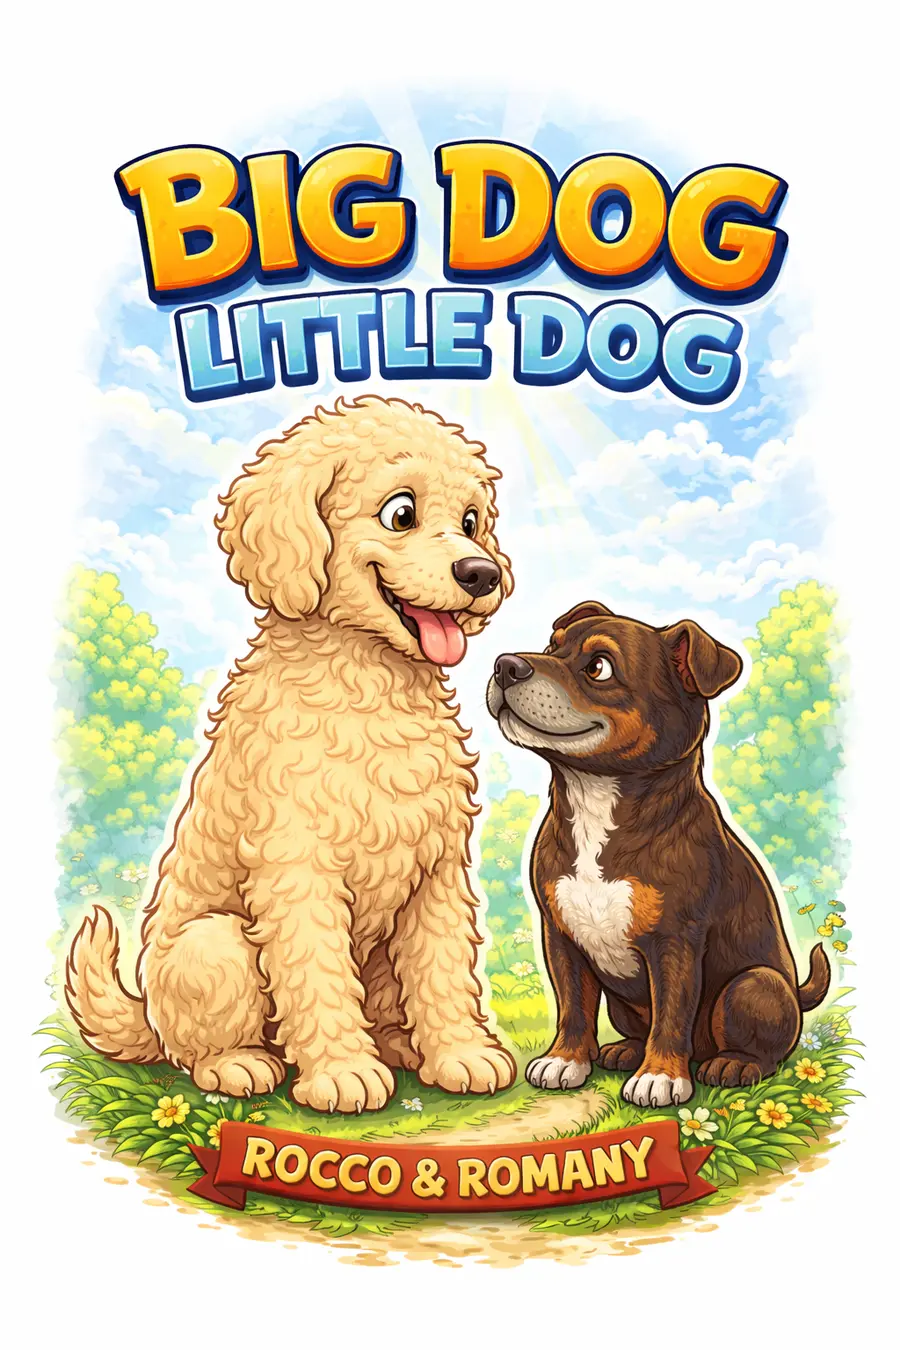
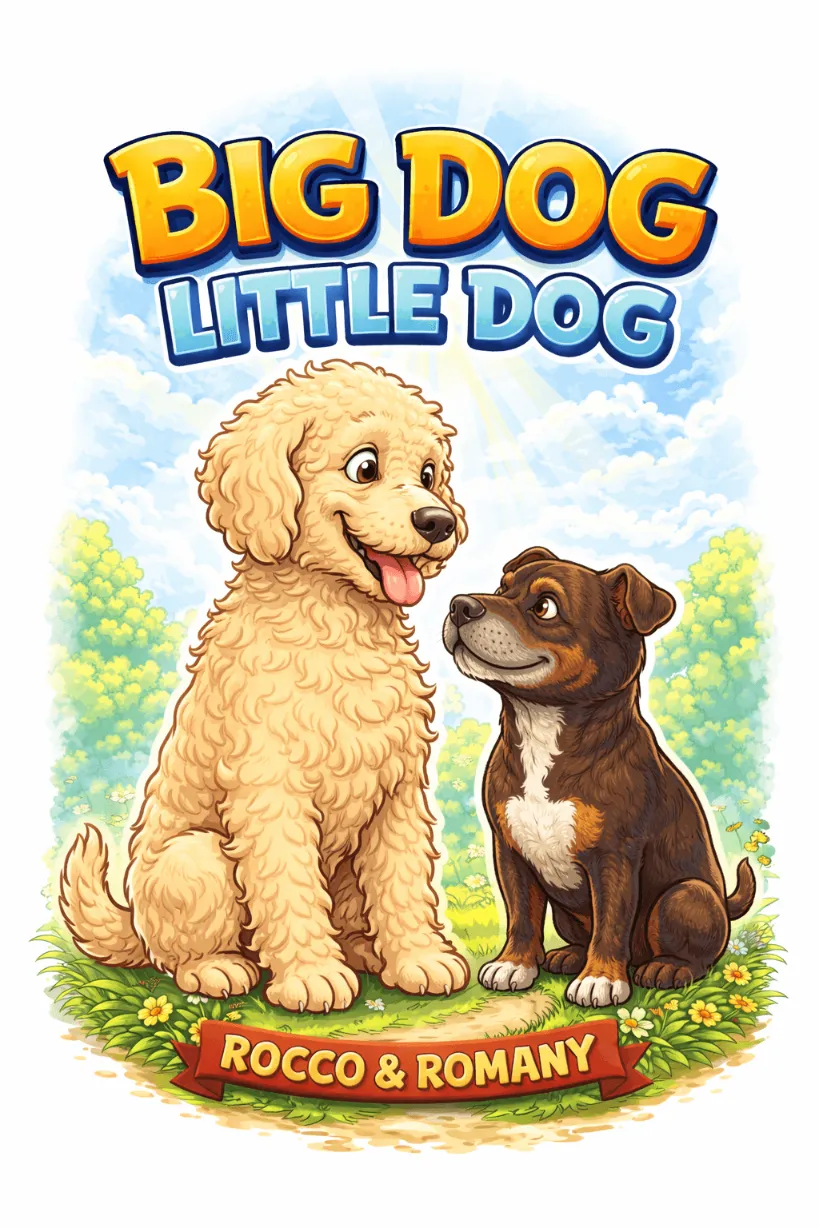
changed to webp images

diff --git a/src/components/cards/SeriesImageCard.tsx b/src/components/cards/SeriesImageCard.tsx
@@ -9,7 +9,7 @@ export function SeriesImageCard({ title, imageBasePath, onSelect }: Props) {
   return (
     <button className="series-card" onClick={onSelect}>
       <img
-        src={`${imageBasePath}.png`}
+        src={`${imageBasePath}.webp`}
         alt={title}
         loading="lazy"
         draggable={false}

diff --git a/src/components/cards/BookCoverCard.tsx b/src/components/cards/BookCoverCard.tsx
@@ -13,7 +13,7 @@ export function BookCoverCard({
     <button className="tile" onClick={onSelect}>
       <div className="tile-image">
         <img
-          src={`${imageBasePath}.png`}
+          src={`${imageBasePath}.webp`}
           alt=""
           loading="lazy"
           decoding="async"

diff --git a/src/hooks/useSequentialImagePreload.tsx b/src/hooks/useSequentialImagePreload.tsx
@@ -22,7 +22,7 @@ export function useSequentialImagePreload(
 
     async function preload() {
       const total = safePages.length;
-      const fileType = ".png";
+      const fileType = ".webp";
 
       for (let i = 0; i < total; i++) {
         const url = safePages[i].imageBaseURL + fileType;
